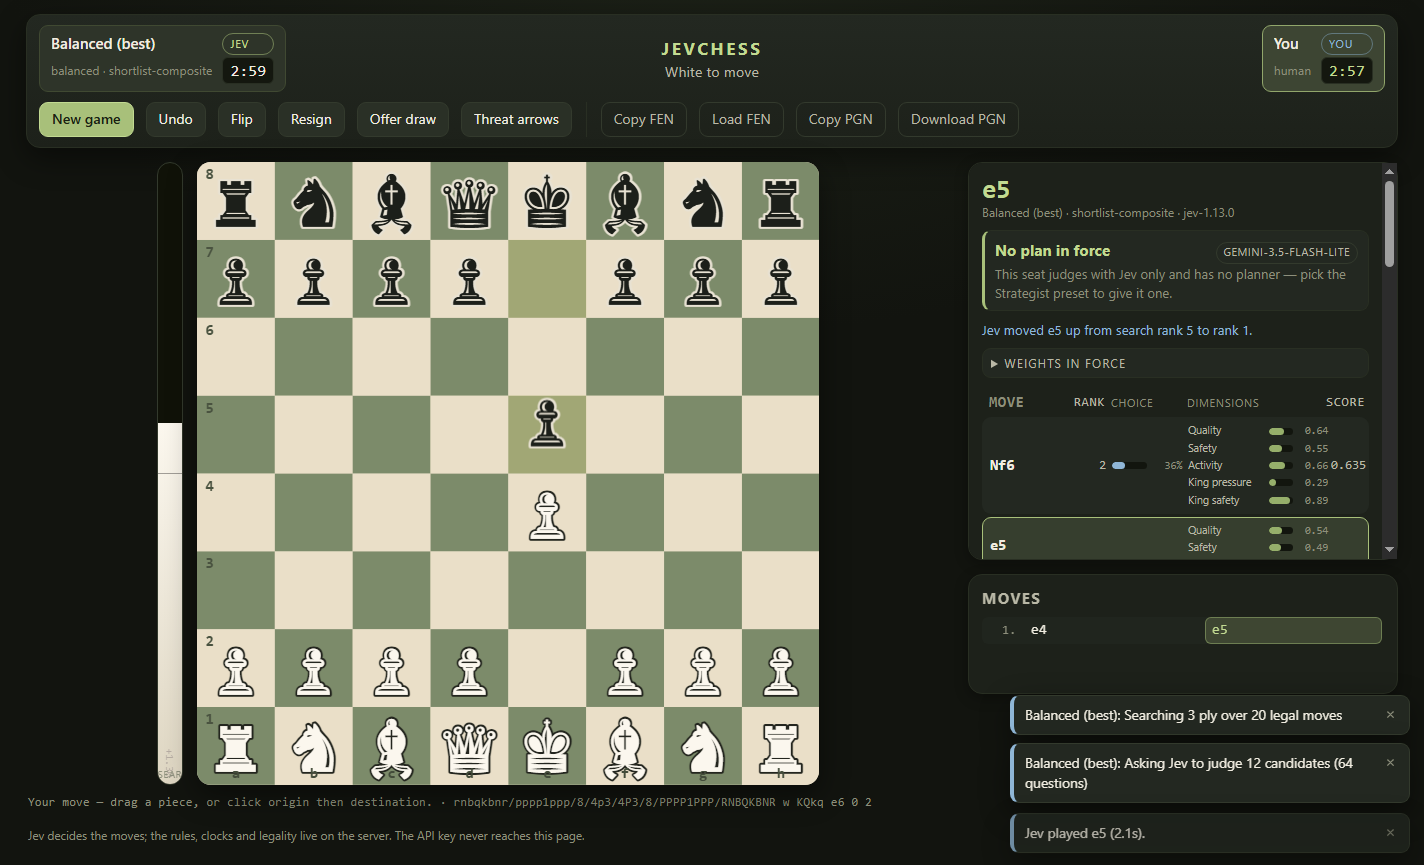
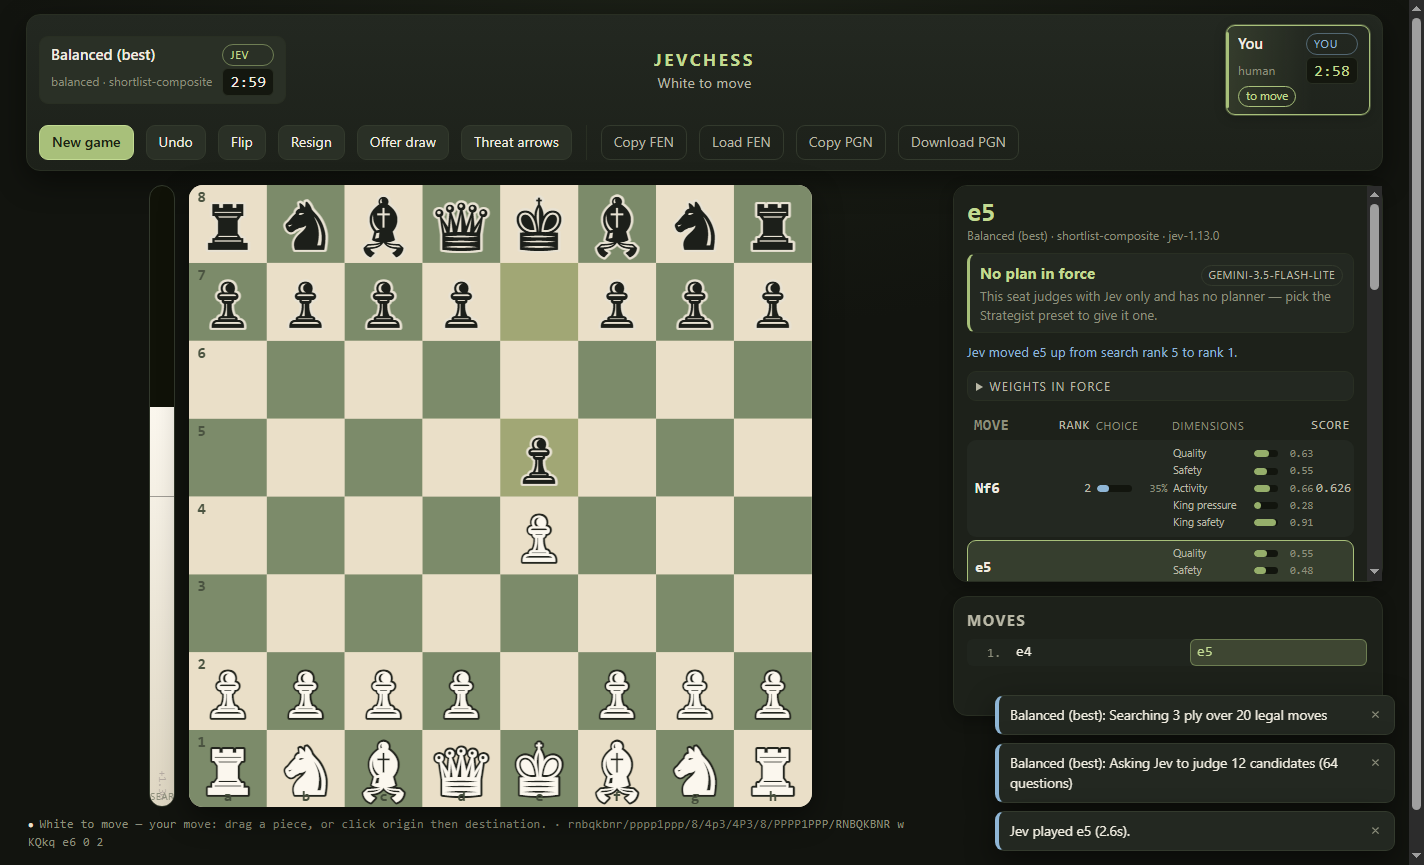
Make whose move it is legible before the piece moves
A watcher should not have to guess which colour is on the clock, and in a
Jev-vs-Jev game there is no other cue at all. Three indicators, all derived
from the server's `turn` rather than any local guess:

- the hint under the board now leads with "White/Black to move — <who>", and
  carries `data-turn`/`data-thinking` so the styling follows the state;
- the player card of the side to move gets `.is-active` (accent outline);
- that card carries a `.player-turn` chip: "to move", or "Jev thinking… N.Ns"
  while `game.ai.thinking` is true for it. The elapsed time comes from the
  server's `ai.startedAt`, so a reload or a second tab shows the same number
  instead of restarting at zero.

The browser check now asserts all three at load (White, nothing played yet)
and mid-game in a Jev-vs-Jev game, and samples the thinking window to prove
the indicator appears *before* the move. It also records the plan panel's
kind, facts and cost in the run notes.

CONTRACT.md: new amendments for the `llm` blocks (GameState.llm,
MoveRecord.llm, PlayerState.usesStrategist) with the shapes as implemented,
and for the turn indicators. README documents the same in the interface
section.

diff --git a/public/js/app.js b/public/js/app.js
@@ -218,12 +218,21 @@ function renderPlayers(now) {
   const players = game && game.players && typeof game.players === "object" ? game.players : {};
   const clocks = clockContext(game, now, store.serverOffset);
   const over = !!(game && game.status && game.status.over);
+  const ai = game && game.ai && typeof game.ai === "object" ? game.ai : null;
   for (const entry of playerEntries()) {
+    // The server's own thinking state is authoritative here: relying on the local flag alone left
+    // the active seat unmarked whenever a move was triggered from somewhere else (a reload, another
+    // tab, or the AI-vs-AI loop).
+    const serverThinking = Boolean(ai && ai.thinking === true && ai.side === entry.color);
+    const localThinking = Boolean(store.thinking.active && store.thinking.side === entry.color);
+    const thinking = serverThinking || localThinking;
+    const startedAt = serverThinking ? Number(ai.startedAt) : localThinking ? Number(store.thinking.startedAt) : Number.NaN;
     entry.card.update(players[entry.color] || null, entry.color, {
       remainingMs: clocks[entry.color],
       running: clocks.running === entry.color,
       active: !!game && game.turn === entry.color && !over,
-      thinking: store.thinking.active && store.thinking.side === entry.color,
+      thinking,
+      elapsedMs: thinking && Number.isFinite(startedAt) ? Math.max(0, now - startedAt) : null,
     });
   }
 }
@@ -299,16 +308,38 @@ function renderBoardHint() {
     bits.push(
       `Game over: ${asText(game.status.result, "?")}${game.status.reason ? ` (${game.status.reason})` : ""}`,
     );
+  } else if (seatThinking(game)) {
+    // Before the piece moves, say whose move it is and who is on the clock — the thing a watcher
+    // actually needs, and the reason this line exists rather than only the small status text.
+    const elapsed = Math.max(0, localNow() - Number(game.ai?.startedAt ?? localNow()));
+    bits.push(
+      `${sideLabel(game)} to move — ${asText(game.players?.[game.turn]?.name, "Jev")} is thinking… ${(elapsed / 1000).toFixed(1)}s`,
+    );
   } else if (canInteract({ game, mode: store.mode })) {
-    bits.push("Your move — drag a piece, or click origin then destination.");
+    bits.push(`${sideLabel(game)} to move — your move: drag a piece, or click origin then destination.`);
   } else if (game.mode === "jev-vs-jev") {
-    bits.push(game.autoplay ? "Jev vs Jev is running." : "Jev vs Jev is paused — use Step.");
+    const seatName = game.players && game.players[game.turn] ? asText(game.players[game.turn].name, "Jev") : "Jev";
+    bits.push(`${sideLabel(game)} to move — ${seatName}${game.autoplay ? " is up next." : " — paused, use Step."}`);
   } else {
-    bits.push("Waiting for Jev…");
+    bits.push(`${sideLabel(game)} to move — waiting for ${asText(game.players?.[game.turn]?.name, "Jev")}.`);
   }
   const fen = game && typeof game.fen === "string" ? game.fen : "";
   if (fen && store.mode === "live") bits.push(fen);
   dom.boardHint.textContent = bits.join("  ·  ");
+  // The colour of the side to move, so the board itself can show it.
+  dom.boardHint.dataset.turn = game && game.turn === "b" ? "b" : game ? "w" : "";
+  dom.boardHint.dataset.thinking = seatThinking(game) ? "true" : "false";
+}
+
+/** "White" / "Black" for whoever is to move. */
+function sideLabel(game) {
+  return game && game.turn === "b" ? "Black" : "White";
+}
+
+/** Is the side to move an AI seat that is currently thinking? */
+function seatThinking(game) {
+  if (!game || !game.ai || game.ai.thinking !== true) return false;
+  return !game.ai.side || game.ai.side === game.turn;
 }
 
 /* -------------------------------------------------------------- previews */
@@ -1032,6 +1063,8 @@ function startTicker() {
     const now = localNow();
     renderPlayers(now);
     statusLine.update(game, now);
+    // The hint carries the thinking clock, so it has to tick with everything else.
+    renderBoardHint(now);
   }, 200);
 }
 

diff --git a/public/style.css b/public/style.css
@@ -879,6 +879,75 @@ textarea {
   color: var(--warn);
 }
 
+/* ------------------------------------------------- whose move is it, anyway */
+
+.player-card {
+  position: relative;
+  transition: border-color 140ms ease, box-shadow 140ms ease, background 140ms ease;
+}
+.player-card.is-active {
+  border-color: var(--accent);
+  background: linear-gradient(90deg, rgba(168, 192, 122, 0.14), transparent 60%);
+  box-shadow: 0 0 0 1px rgba(168, 192, 122, 0.35), 0 2px 12px rgba(0, 0, 0, 0.25);
+}
+.player-card.is-active::before {
+  content: "";
+  position: absolute;
+  left: -1px;
+  top: 6px;
+  bottom: 6px;
+  width: 3px;
+  border-radius: 3px;
+  background: var(--accent);
+}
+.player-card[data-color="b"].is-active {
+  border-color: var(--info);
+  background: linear-gradient(90deg, rgba(143, 182, 214, 0.14), transparent 60%);
+  box-shadow: 0 0 0 1px rgba(143, 182, 214, 0.35), 0 2px 12px rgba(0, 0, 0, 0.25);
+}
+.player-card[data-color="b"].is-active::before {
+  background: var(--info);
+}
+.player-turn {
+  font-size: 0.72rem;
+  padding: 1px 7px;
+  border-radius: 999px;
+  border: 1px solid var(--accent);
+  color: var(--accent-strong);
+  white-space: nowrap;
+}
+.player-card[data-color="b"] .player-turn {
+  border-color: var(--info);
+  color: var(--info);
+}
+.player-turn.is-thinking {
+  animation: turn-pulse 1.4s ease-in-out infinite;
+}
+@keyframes turn-pulse {
+  0%, 100% { opacity: 1; }
+  50% { opacity: 0.55; }
+}
+
+/* The line under the board leads with the side to move and colours it accordingly. */
+.board-hint {
+  font-variant-numeric: tabular-nums;
+}
+.board-hint[data-turn="w"]::before,
+.board-hint[data-turn="b"]::before {
+  content: "●";
+  margin-right: 6px;
+  font-size: 0.8em;
+}
+.board-hint[data-turn="w"]::before {
+  color: var(--square-light);
+}
+.board-hint[data-turn="b"]::before {
+  color: var(--info);
+}
+.board-hint[data-thinking="true"] {
+  color: var(--accent-strong);
+}
+
 .badge {
   font-size: 0.66rem;
   text-transform: uppercase;

diff --git a/public/js/panels.js b/public/js/panels.js
@@ -62,7 +62,9 @@ export function createPlayerCard(root) {
   const meta = el("span", "player-meta", "");
   const badge = el("span", "player-badge", "");
   const clock = el("span", "player-clock", "");
-  root.append(name, meta, badge, clock);
+  const turn = el("span", "player-turn", "");
+  turn.hidden = true;
+  root.append(name, meta, badge, turn, clock);
   root.classList.add("player-card");
 
   return {
@@ -96,8 +98,17 @@ export function createPlayerCard(root) {
       }
       const thinking = extra.thinking === true;
       root.classList.toggle("is-thinking", thinking);
-      if (thinking) {
-        meta.textContent = `${meta.textContent} · thinking…`.replace(/^ · /, "");
+      root.dataset.thinking = thinking ? "true" : "false";
+      // The seat on the move says so, with its name and a live clock while it thinks: a watcher
+      // should never have to guess whose turn it is before the piece moves.
+      const onMove = extra.active === true || thinking;
+      turn.hidden = !onMove;
+      if (onMove) {
+        const seat = asText(p.name) || (p.kind === "jev" ? "Jev" : "you");
+        turn.textContent = thinking ? `${seat} thinking… ${formatSeconds(Number(extra.elapsedMs ?? 0))}s` : "to move";
+        turn.classList.toggle("is-thinking", thinking);
+      } else {
+        turn.textContent = "";
       }
       if (extra.material !== undefined) {
         root.dataset.material = String(extra.material);

diff --git a/CONTRACT.md b/CONTRACT.md
@@ -269,4 +269,56 @@ no field was renamed or removed.
    immediately, a human opponent leaves `game.drawOffer` set for the UI to accept or decline.
 9. **Static responses carry `Cache-Control: no-store`** (development server: never serve a
    stale bundle) and unknown extension-less paths fall back to the app shell.
+10. **The strategy layer has its own blocks, distinct from Jev's.** `GameState` gained
+    `llm`, and `MoveRecord` gained `llm`; `PlayerState` gained `usesStrategist`.
+
+    ```jsonc
+    // GameState.llm
+    {
+      "configured": true,            // a reasoning-model client exists
+      "provider": "gemini", "model": "gemini-3.5-flash-lite",
+      "mock": false,                 // MockLlmClient in use
+      "reviews": 2,                  // plan reviews spent this game, both seats
+      "costUsd": 0.0012, "tokens": 2310,
+      "lastError": null,             // last strategist failure, else null
+      "plans": { "w": Plan | null, "b": Plan | null }
+    }
+
+    // Plan — the validated, clamped plan actually in force for one seat
+    {
+      "plan": "develop", "label": "Develop and centralise",
+      "targets": ["e4", "d4"],       // may be empty
+      "risk": "balanced", "reviewAfterPlies": 4,
+      "weightDeltas": { "activity": 0.1 },   // requested, not applied
+      "askJev": ["quality", "activity"],     // Jev dimensions to ask about
+      "opponentPlan": null, "commentary": "…"
+    }
+
+    // MoveRecord.llm — null for a human move and for a seat that does not plan
+    {
+      "enabled": true, "promptVersion": "plan-v1",
+      "plan": Plan,                  // the plan in force when this move was chosen
+      "applied": { "weights": { "activity": 0.1 }, "dims": ["quality","activity"], "dropped": [], "notes": ["…"] },
+      "reason": "phase-change",      // why the strategist was asked
+      "thinkingLevel": "medium", "model": "gemini-3.5-flash-lite", "api": "interactions",
+      "mock": false,
+      "usage": { "input": 1155, "output": 89, "thought": 113 },
+      "costUsd": 0.00057, "elapsedMs": 3300,
+      "reviewedAtPly": 1, "pliesSinceReview": 0,
+      "problems": [], "warnings": [], "notes": [], "error": null
+    }
+    ```
+
+    A seat that does not plan reports `usesStrategist: false`, and the UI renders the plan
+    block only for a seat that plans — a non-planning seat must never look as if a plan were
+    in force. `applied.weights` holds the *deltas* actually applied to the preset (after
+    clamping to ±0.25 and dropping unweighable dimensions into `dropped`), while
+    `MoveRecord.weights` is the final, plan-adjusted mix — so the sliders a user sees match
+    the judgement that was rendered.
+11. **Whose move it is must be legible before the piece moves** (extends UI requirement 11).
+    Three indicators, all derived from `GameState.turn` rather than a local guess: the board
+    hint leads with "White/Black to move" and carries `data-turn`; the card of the side to
+    move gets `.is-active`; and that card's `.player-turn` chip names the seat — "to move",
+    or "<name> thinking… N.Ns" while `game.ai.thinking` is true for it, timed from the
+    server's `ai.startedAt` so a reload or a second tab shows the same number.
 

diff --git a/README.md b/README.md
@@ -195,6 +195,12 @@ Board on the left, Jev's reasoning on the right.
   draw offers (a Jev opponent answers a draw offer itself, with the probability it used).
 - Clocks with increment, interpolated between server updates; pause/step for Jev vs Jev;
   an "AI thinking…" indicator.
+- **Whose move it is, before anything moves.** Three indicators, all driven by the server's
+  `turn`, never by a local guess: the hint under the board leads with "White to move — …",
+  the card of the side to move is outlined in its colour, and that card carries a chip
+  reading "to move" — or "Jev thinking… 3.4s" while that seat is choosing, timed from the
+  server's `ai.startedAt` so a reload or a second tab shows the same number. In a Jev-vs-Jev
+  game this is the only way to tell which engine is on the clock at a glance.
 
 ---
 
